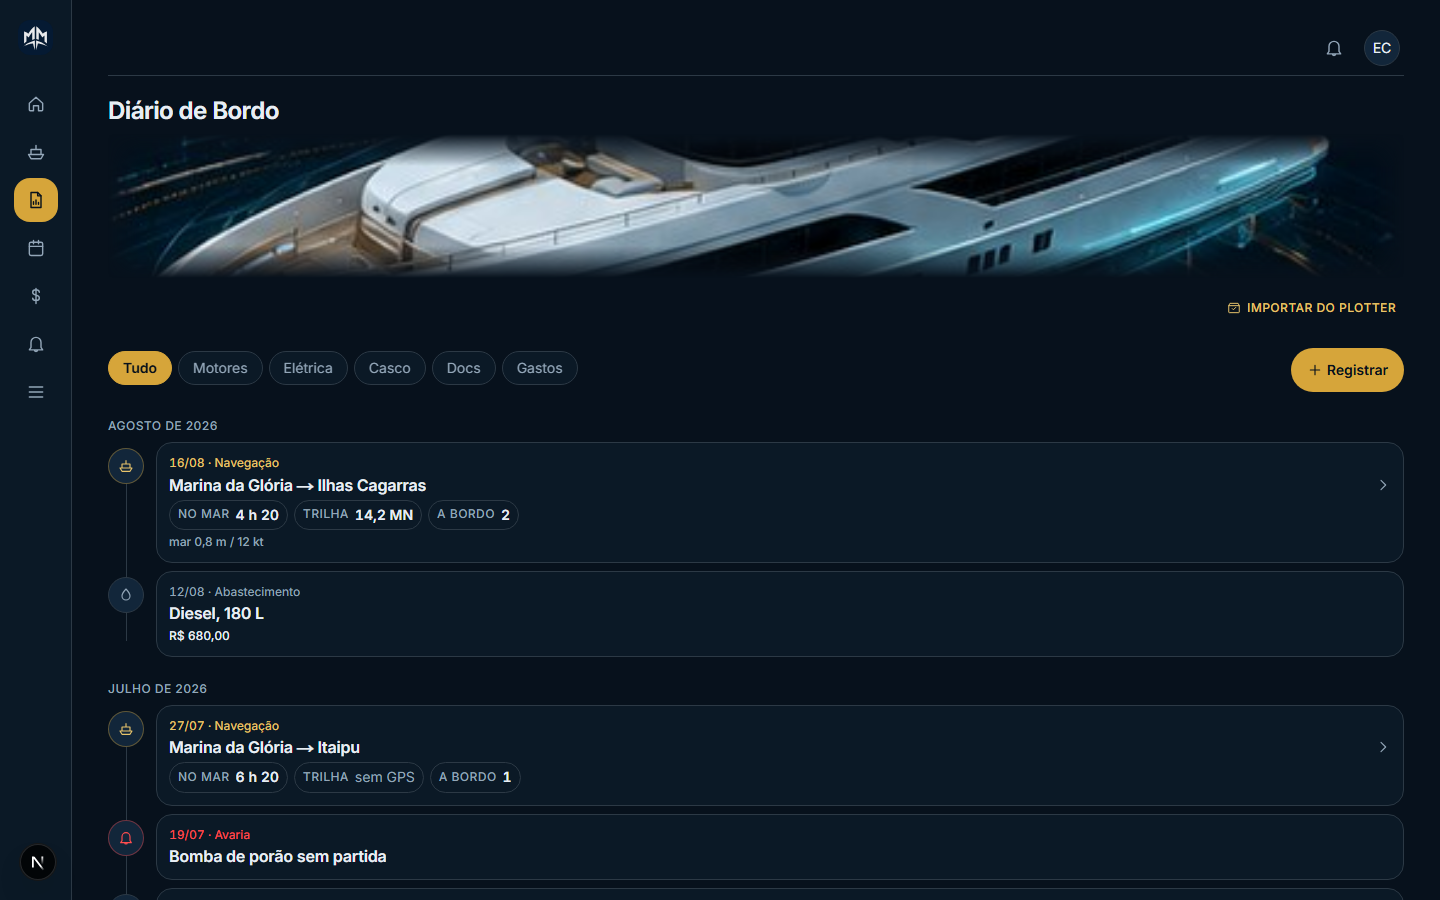
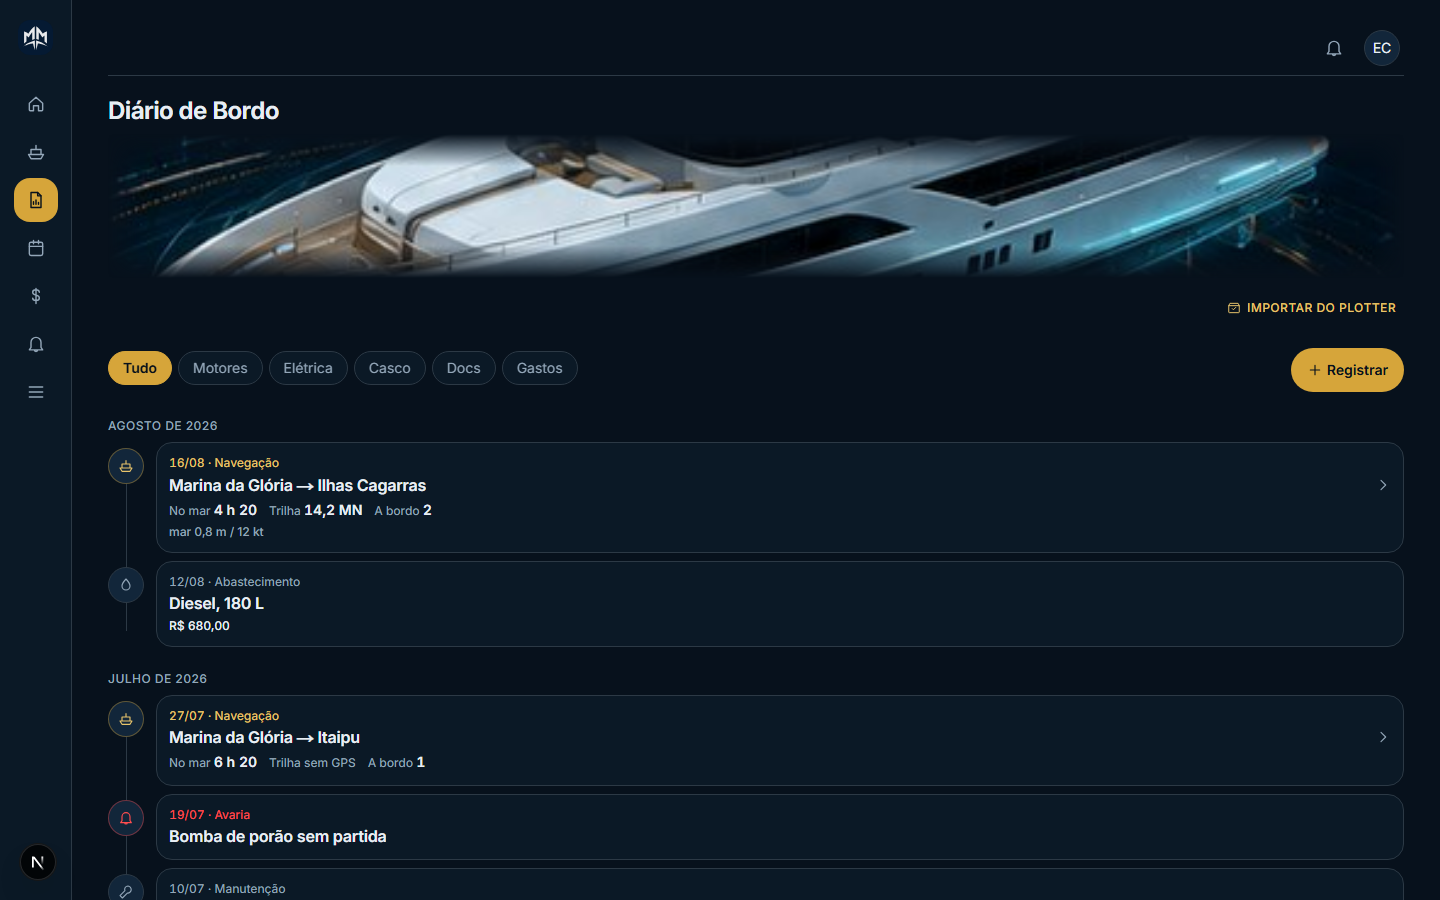
fix(onda 123): os instrumentos da saída saem das cápsulas e viram linha fina
"Os badges cápsulas do diário estão muito grandes" (dono, 20/08) — e a
imagem 5 do guia dá razão a ele: o registro de lá escreve "4 h 20 min" numa
linha fina de leitura, sem pílula nenhuma.

- A fileira de ChipDado (28,9px de altura, quebrando em duas linhas a 390px
  agora que o medalhão come 48px de largura) virou UMA linha de 18px:
  rótulo em rotulo-dado cinza, número em tabular claro — a mesma voz da
  dupla rótulo/valor, sem a moldura.
- "sem GPS" continua vestindo ausência (cinza, peso normal), nunca a voz de
  um número: o diário não confunde "zero" com "não sei".
- ChipDado sai do import; o componente continua vivo nos outros consumidores.

Prova: .prova/15-diario-tela.png. 2081 testes verdes, tsc e eslint limpos.

Changed region(s): [[0.0625, 0.7467, 0.9375, 1.0], [0.0625, 0.56, 0.9375, 0.7156]]

diff --git a/web/app/(app)/diario/page.tsx b/web/app/(app)/diario/page.tsx
@@ -2,7 +2,7 @@ import Link from "next/link"
 import { redirect } from "next/navigation"
 import { Icone, type NomeIcone } from "@/components/icone"
 import { BarraFerramentas } from "@/components/ui/barra-ferramentas"
-import { Chip, ChipDado } from "@/components/ui/chip"
+import { Chip } from "@/components/ui/chip"
 import { EstadoVazio } from "@/components/ui/estado-vazio"
 import { SecaoPagina } from "@/components/ui/secao-pagina"
 import { ObjetoHub } from "@/components/ui/objeto-hub"
@@ -258,40 +258,41 @@ export default async function DiarioPage({
                     {ehSaida && <Icone nome="chevron" className="size-4 shrink-0 text-dim" />}
                   </div>
                   {ehSaida && (
-                    /* ONDA 93 — A FILEIRA VOLTA PRA CASA. Estas três pílulas
-                       são a origem do `ChipDado` (a onda 91 promoveu o desenho
-                       DAQUI pro componente) e continuavam escritas à mão logo
-                       abaixo dele — o jeito clássico de as duas cópias
-                       derivarem. Agora o dono do desenho é um só.
-                       O que muda na tela: o valor sai em `.valor` (14px) no
-                       lugar dos 12px que este arquivo escrevia. É a régua de
-                       hierarquia da onda 87 — 12px ao lado de um rótulo de
-                       11px liam como a mesma voz — e custa 2,4px de altura no
-                       chip (26,5 → 28,9). Os `mt-1` abaixo pagam essa conta
-                       com folga; a medida completa está no bloco do fim.
-                       `mt-1` e não `mt-2`: é o mesmo respiro que `LinhaLista`
-                       usa entre o texto e o slot `chips` — a fileira de chips
-                       do app passa a ter um valor só. */
-                    <div className="mt-1 flex flex-wrap gap-1.5">
+                    /* ONDA 123 — AS CÁPSULAS CAEM ("os badges cápsulas do
+                       diário estão muito grandes", dono, 20/08 — e a imagem 5
+                       do guia dá razão a ele: o registro de lá escreve
+                       "4 h 20 min" numa LINHA FINA de leitura, sem pílula
+                       nenhuma). A fileira de `ChipDado` media 28,9px e ainda
+                       quebrava em duas a 390px, agora que o medalhão come
+                       48px de largura; a linha entrega os mesmos três
+                       instrumentos em 18px, sempre numa linha só.
+                       A voz continua a da dupla rótulo/valor: rótulo em
+                       `rotulo-dado` cinza, número em tabular claro — e
+                       "sem GPS" segue vestindo AUSÊNCIA (cinza, peso normal),
+                       nunca a voz de um número de verdade: o diário não
+                       inventa distância nem confunde "zero" com "não sei". */
+                    <p className="mt-1 flex flex-wrap items-baseline gap-x-3 gap-y-0.5">
                       {duracaoEvento != null && (
-                        <ChipDado rotulo="No mar">{textoDuracao(duracaoEvento)}</ChipDado>
+                        <span className="rotulo-dado text-dim">
+                          No mar <span className="valor tabular-nums text-texto">{textoDuracao(duracaoEvento)}</span>
+                        </span>
                       )}
-                      <ChipDado rotulo="Trilha">
+                      <span className="rotulo-dado text-dim">
+                        Trilha{" "}
                         {distanciaNm != null ? (
-                          `${distanciaNm.toLocaleString("pt-BR", { maximumFractionDigits: 1 })} MN`
+                          <span className="valor tabular-nums text-texto">
+                            {distanciaNm.toLocaleString("pt-BR", { maximumFractionDigits: 1 })} MN
+                          </span>
                         ) : (
-                          // "sem GPS" no lugar de 0 MN — o diário não inventa
-                          // distância (nota do próprio canvas). E ele veste
-                          // AUSÊNCIA, não leitura: cinza e peso normal contra o
-                          // branco seminegrito que o `ChipDado` dá a um número
-                          // de verdade. Sem isso, "sem GPS" teria exatamente a
-                          // mesma voz de "12,4 MN" — que é a confusão entre
-                          // "zero" e "não sei" com outra roupa.
-                          <span className="font-normal text-dim">sem GPS</span>
+                          <span>sem GPS</span>
                         )}
-                      </ChipDado>
-                      {aBordo > 0 && <ChipDado rotulo="A bordo">{aBordo}</ChipDado>}
-                    </div>
+                      </span>
+                      {aBordo > 0 && (
+                        <span className="rotulo-dado text-dim">
+                          A bordo <span className="valor tabular-nums text-texto">{aBordo}</span>
+                        </span>
+                      )}
+                    </p>
                   )}
                   {ehSaida
                     ? apoioSaida && <p className="apoio mt-1 text-dim">{apoioSaida}</p>
